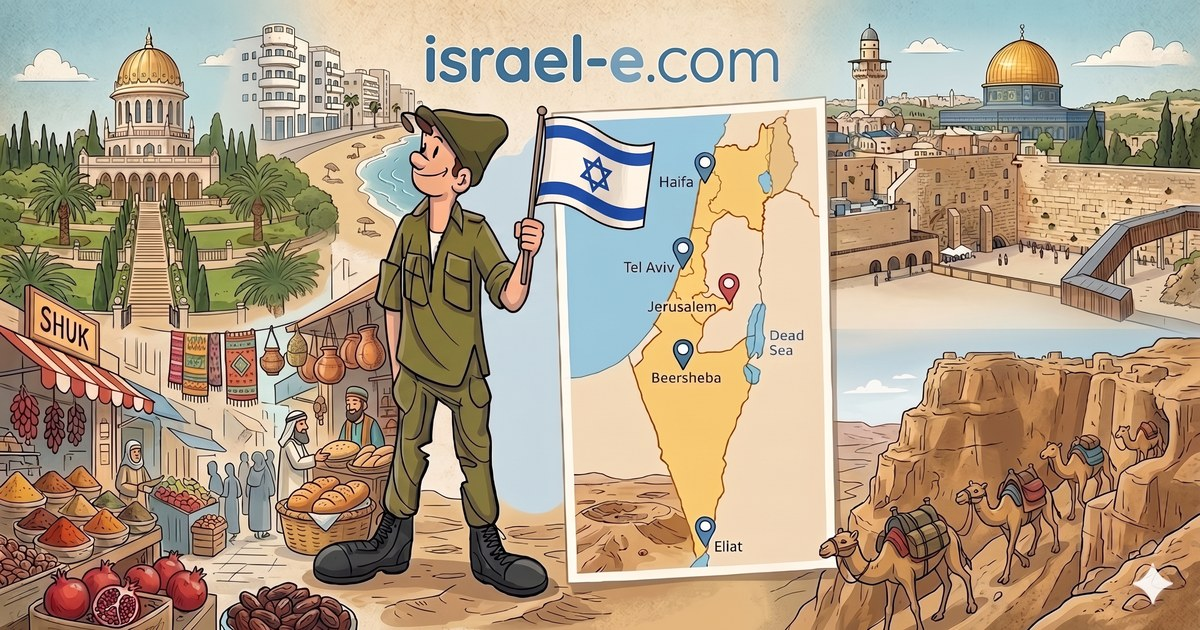
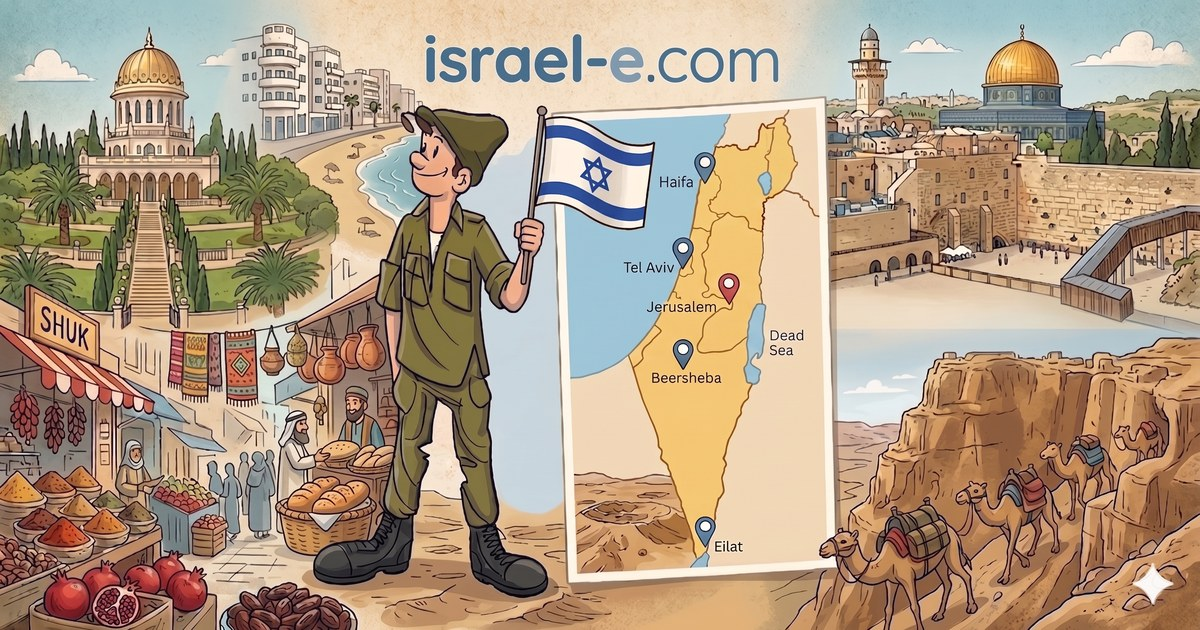
feat: archive calendar + new share image
Calendar:
- 📅 button in topbar opens a month-grid modal showing every playable day
  since EPOCH (2026-05-12). Click any cell to load that day's puzzle
  (today → /, past → /?date=YYYY-MM-DD).
- Signed-in users see their score per played day pulled from /api/me/history;
  cells highlighted green. Today highlighted blue.
- Months capped: prev disabled at EPOCH's month, next disabled at current.
- Lang-aware month + weekday names via Intl.DateTimeFormat (HE/EN).
- repaintDynamic re-renders the calendar on language toggle.

Share image:
- Updated docs/share.png + docs/homepage.png to the new Eilat-fixed art
  (typo \"Eliat\" → \"Eilat\" in the source); resized to 1200x630.

diff --git a/frontend/app.js b/frontend/app.js
@@ -53,6 +53,9 @@ const STRINGS = {
     btn_history_tooltip: "היסטוריה",
     btn_signout_tooltip: "התנתק מהחשבון",
     btn_help_tooltip: "איך משחקים",
+    btn_archive_tooltip: "ארכיון פאזלים",
+    archive_title: "ארכיון פאזלים",
+    archive_hint: "לחצו על תאריך כדי לשחק את הפאזל של אותו יום.",
     prompt_where: "איפה",
     where_q: "?",
     round_n_of: "סבב {n} / 6",
@@ -144,6 +147,9 @@ const STRINGS = {
     btn_history_tooltip: "History",
     btn_signout_tooltip: "Sign out",
     btn_help_tooltip: "How to play",
+    btn_archive_tooltip: "Puzzle archive",
+    archive_title: "Puzzle archive",
+    archive_hint: "Tap any date to play that day's puzzle.",
     prompt_where: "Where is",
     where_q: "?",
     round_n_of: "Round {n} / 6",
@@ -330,6 +336,10 @@ function repaintDynamic() {
   if (state.played.length && !document.getElementById("end-card").classList.contains("hidden")) {
     renderPlacesList();
   }
+  // Re-render calendar (lang-aware month + weekday names)
+  if (state._calMonth && !document.getElementById("archive-card").classList.contains("hidden")) {
+    renderCalendar();
+  }
 }
 
 // Israel-themed score emojis (5 buckets, best → worst):
@@ -424,6 +434,10 @@ async function init() {
   document.getElementById("btn-stats-close").onclick = closeModal;
   document.getElementById("btn-sound").onclick = toggleSound;
   document.getElementById("btn-lang").onclick = toggleLang;
+  document.getElementById("btn-archive").onclick = openArchive;
+  document.getElementById("btn-archive-close").onclick = closeModal;
+  document.getElementById("cal-prev").onclick = () => navCal(-1);
+  document.getElementById("cal-next").onclick = () => navCal(+1);
   document.getElementById("btn-howto-next").onclick = () => moveHowto(+1);
   document.getElementById("btn-howto-prev").onclick = () => moveHowto(-1);
   document.getElementById("btn-howto-skip").onclick = skipHowto;
@@ -1262,6 +1276,119 @@ async function openStats() {
        <div class="hist-bar" style="width:${(n / max) * 100}%">${n || ""}</div>
      </div>`).join("");
   openModal("stats-card");
+}
+
+// ─── Archive calendar ──────────────────────────────────────────────────────
+const EPOCH_ISO = "2026-05-12";
+
+function _ilTodayIso() {
+  // YYYY-MM-DD in Asia/Jerusalem regardless of viewer's TZ.
+  return new Intl.DateTimeFormat("en-CA", { timeZone: "Asia/Jerusalem" }).format(new Date());
+}
+
+async function openArchive() {
+  // Pre-fetch played history once for the session (signed-in users only).
+  if (session?.access_token && state._playedMap === undefined) {
+    try {
+      const h = await fetchJSON("/api/me/history", authHeaders());
+      const map = {};
+      for (const g of (h.games || [])) map[g.puzzle_date] = g.total_score;
+      state._playedMap = map;
+    } catch { state._playedMap = {}; }
+  } else if (state._playedMap === undefined) {
+    state._playedMap = {};
+  }
+  // Default month: viewing today's puzzle date, or the archived date.
+  if (!state._calMonth) {
+    const seed = state.archive || _ilTodayIso();
+    state._calMonth = new Date(seed + "T00:00:00");
+  }
+  renderCalendar();
+  openModal("archive-card");
+}
+
+function navCal(delta) {
+  const m = new Date(state._calMonth);
+  m.setDate(1);
+  m.setMonth(m.getMonth() + delta);
+  state._calMonth = m;
+  renderCalendar();
+}
+
+function _isoOf(d) {
+  // Local ISO YYYY-MM-DD (avoids UTC drift from .toISOString()).
+  const y = d.getFullYear();
+  const mo = String(d.getMonth() + 1).padStart(2, "0");
+  const da = String(d.getDate()).padStart(2, "0");
+  return `${y}-${mo}-${da}`;
+}
+
+function renderCalendar() {
+  const m = state._calMonth;
+  const year = m.getFullYear();
+  const month = m.getMonth();
+  const todayIso = _ilTodayIso();
+  const todayD = new Date(todayIso + "T00:00:00");
+  const epochD = new Date(EPOCH_ISO + "T00:00:00");
+  const locale = LANG === "he" ? "he-IL" : "en-US";
+
+  document.getElementById("cal-month-label").textContent =
+    new Intl.DateTimeFormat(locale, { month: "long", year: "numeric" }).format(m);
+
+  // Weekday header (Sun-Sat). Jan 4 2026 was a Sunday — use it as reference.
+  const wdFmt = new Intl.DateTimeFormat(locale, { weekday: "short" });
+  const wdNames = [];
+  for (let i = 0; i < 7; i++) {
+    wdNames.push(wdFmt.format(new Date(2026, 0, 4 + i)));
+  }
+  document.getElementById("cal-weekdays").innerHTML =
+    wdNames.map((n) => `<div>${escapeHtml(n)}</div>`).join("");
+
+  // Grid: 6 rows × 7 cols starting from Sunday on or before the 1st.
+  const first = new Date(year, month, 1);
+  const start = new Date(year, month, 1 - first.getDay());
+  const playedMap = state._playedMap || {};
+  const cells = [];
+  for (let i = 0; i < 42; i++) {
+    const d = new Date(start);
+    d.setDate(start.getDate() + i);
+    const iso = _isoOf(d);
+    const inMonth = d.getMonth() === month;
+    const isToday = iso === todayIso;
+    const isFuture = d > todayD;
+    const isPreEpoch = d < epochD;
+    const score = playedMap[iso];
+
+    let cls = "cal-cell";
+    let dataset = "";
+    if (!inMonth) cls += " cal-out";
+    if (isPreEpoch || isFuture) {
+      cls += " cal-disabled";
+    } else {
+      cls += " cal-clickable";
+      dataset = ` data-iso="${iso}"`;
+    }
+    if (isToday) cls += " cal-today";
+    if (score != null) cls += " cal-played";
+
+    const scoreBadge = score != null ? `<span class="cal-score">${score}</span>` : "";
+    cells.push(`<div class="${cls}"${dataset}>${d.getDate()}${scoreBadge}</div>`);
+  }
+  const grid = document.getElementById("cal-grid");
+  grid.innerHTML = cells.join("");
+  grid.onclick = (e) => {
+    const cell = e.target.closest(".cal-cell");
+    if (!cell || !cell.dataset.iso) return;
+    const iso = cell.dataset.iso;
+    location.href = iso === todayIso ? "/" : `/?date=${iso}`;
+  };
+
+  // Nav bounds: can't go before EPOCH's month, can't go past current month.
+  const monthStart = new Date(year, month, 1);
+  const monthEnd = new Date(year, month + 1, 0);
+  document.getElementById("cal-prev").disabled =
+    monthStart <= new Date(epochD.getFullYear(), epochD.getMonth(), 1);
+  document.getElementById("cal-next").disabled = monthEnd >= todayD;
 }
 
 // ─── How-to-play modal ──────────────────────────────────────────────────────

diff --git a/frontend/style.css b/frontend/style.css
@@ -658,6 +658,59 @@ a.place-name:hover { text-decoration: underline; }
 
 .end-meta { margin-top: 14px; text-align: center; }
 
+/* ─── Calendar archive modal ─── */
+#archive-card { max-width: 380px; padding: 22px 18px; }
+.cal-header {
+  display: flex; align-items: center; justify-content: space-between;
+  margin: 6px 0 14px; gap: 8px;
+}
+#cal-month-label { font-size: 15px; font-weight: 600; opacity: 0.95; letter-spacing: 0.3px; }
+.cal-nav {
+  background: transparent; border: 1px solid rgba(77, 125, 240, 0.3);
+  padding: 4px 12px; margin: 0; font-size: 18px; min-width: 36px;
+  border-radius: 8px; line-height: 1; font-weight: 600;
+}
+.cal-nav:disabled { opacity: 0.22; pointer-events: none; }
+.cal-weekdays, .cal-grid {
+  display: grid; grid-template-columns: repeat(7, 1fr); gap: 4px;
+}
+.cal-weekdays {
+  margin-bottom: 6px; font-size: 10px; opacity: 0.55;
+  text-align: center; text-transform: uppercase; letter-spacing: 0.5px;
+}
+.cal-cell {
+  aspect-ratio: 1 / 1;
+  display: flex; flex-direction: column;
+  align-items: center; justify-content: center;
+  border-radius: 8px; font-size: 13px;
+  background: rgba(255, 255, 255, 0.03);
+  border: 1px solid rgba(255, 255, 255, 0.06);
+  transition: background 0.15s, border-color 0.15s, transform 0.1s;
+  user-select: none;
+}
+.cal-cell.cal-clickable { cursor: pointer; }
+.cal-cell.cal-clickable:hover {
+  background: rgba(77, 125, 240, 0.22);
+  border-color: rgba(77, 125, 240, 0.55);
+  transform: translateY(-1px);
+}
+.cal-cell.cal-disabled { opacity: 0.2; }
+.cal-cell.cal-out { opacity: 0.35; }
+.cal-cell.cal-today {
+  background: rgba(77, 125, 240, 0.32);
+  border-color: var(--il-blue-light);
+  font-weight: 700;
+  cursor: pointer;
+}
+.cal-cell.cal-today:hover { background: rgba(77, 125, 240, 0.45); }
+.cal-cell.cal-played {
+  background: rgba(72, 187, 120, 0.18);
+  border-color: rgba(72, 187, 120, 0.45);
+}
+.cal-cell.cal-played.cal-today { background: rgba(72, 187, 120, 0.32); border-color: #48bb78; }
+.cal-score { font-size: 9px; opacity: 0.85; margin-top: 1px; line-height: 1; }
+.cal-hint { font-size: 11px; opacity: 0.55; margin: 14px 0 6px; }
+
 /* ─── EN/LTR overrides ─── */
 html[dir="ltr"] #archive-banner a::before { content: ""; }
 html[dir="ltr"] #place-name-he { unicode-bidi: plaintext; }

diff --git a/frontend/index.html b/frontend/index.html
@@ -55,7 +55,7 @@
 </script>
 
 <link href="https://unpkg.com/maplibre-gl@4.7.1/dist/maplibre-gl.css" rel="stylesheet" />
-<link href="/static/style.css?v=19" rel="stylesheet" />
+<link href="/static/style.css?v=20" rel="stylesheet" />
 </head>
 <body>
 <!-- splash: covers everything until init resolves -->
@@ -85,6 +85,7 @@
   <div id="toolbar">
     <button class="tb-btn" id="btn-help" data-i18n-attr="title" data-i18n="btn_help_tooltip" title="איך משחקים">?</button>
     <button class="tb-btn hidden" id="btn-stats" data-i18n-attr="title" data-i18n="btn_stats_tooltip" title="סטטיסטיקות">📊</button>
+    <button class="tb-btn" id="btn-archive" data-i18n-attr="title" data-i18n="btn_archive_tooltip" title="ארכיון">📅</button>
     <button class="tb-btn" id="btn-lang" title="עברית / English">EN</button>
     <button class="tb-btn" id="btn-sound" data-i18n-attr="title" data-i18n="btn_sound_tooltip" title="צליל">🔊</button>
   </div>
@@ -231,6 +232,20 @@
     <button id="btn-stats-close" data-i18n="btn_close">סגור</button>
   </div>
 
+  <!-- archive calendar modal -->
+  <div id="archive-card" class="card hidden">
+    <h2 data-i18n="archive_title">ארכיון</h2>
+    <div class="cal-header">
+      <button id="cal-prev" class="cal-nav" type="button">‹</button>
+      <span id="cal-month-label"></span>
+      <button id="cal-next" class="cal-nav" type="button">›</button>
+    </div>
+    <div id="cal-weekdays" class="cal-weekdays"></div>
+    <div id="cal-grid" class="cal-grid"></div>
+    <p class="cal-hint" data-i18n="archive_hint">לחצו על תאריך כדי לשחק את הפאזל של אותו יום.</p>
+    <button id="btn-archive-close" data-i18n="btn_close">סגור</button>
+  </div>
+
   <!-- how-to-play modal -->
   <div id="howto-card" class="card hidden">
     <div id="howto-slides">
@@ -270,6 +285,6 @@
 <script src="https://cdn.jsdelivr.net/npm/@supabase/supabase-js@2"></script>
 <script src="https://cdn.jsdelivr.net/npm/animejs@4/dist/bundles/anime.umd.min.js"></script>
 <script src="https://unpkg.com/lucide@0.469.0/dist/umd/lucide.min.js"></script>
-<script src="/static/app.js?v=31"></script>
+<script src="/static/app.js?v=32"></script>
 </body>
 </html>